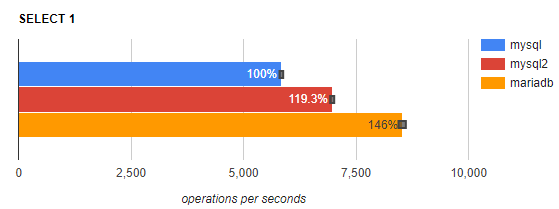
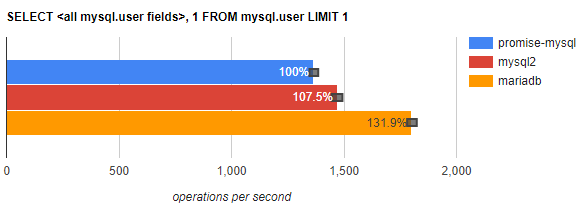
Actual benchmark tests

diff --git a/documentation/benchmarks.md b/documentation/benchmarks.md
@@ -23,19 +23,20 @@ they need to be installed :
 ```
     
 # Some result 
-Result on a DigitalOcean ubuntu 16.04 x64 with 8gb, 4vcpu, using local database :
-* mariadb 10.3 with default configuration and (collation-server=utf8mb4_unicode_ci + character-set-server=utf8mb4)
-* node.js v8.11.3
+Result on 2 DigitalOcean ubuntu 16.04 x64 with 8gb, 4vcpu :
+* server : mariadb 10.3 with default configuration and (collation-server=utf8mb4_unicode_ci + character-set-server=utf8mb4)
+* client : node.js v8.11.3
 
 version : 
 * mysql : 2.15.0
 * mysql2 : 1.5.3
-* mysql-promise : 4.1.0
+* Promise-mysql : 3.1.1
   
 ``` 
+
 { user: 'root',
   database: 'testn',
-  host: 'localhost',
+  host: '159.89.6.101',
   port: 3306,
   trace: false,
   charsetNumber: 224 }
@@ -47,71 +48,84 @@ benchmark: ./benchs/bench_promise_select_collation.js
 benchmark: ./benchs/bench_promise_select_one_user.js
 benchmark: ./benchs/bench_promise_select_one_user_random.js
 benchmark: ./benchs/bench_promise_select_param.js
+benchmark: ./benchs/bench_promise_select_random_param.js
 benchmark: ./benchs/bench_select_one_user.js
 benchmark: ./benchs/bench_select_one_user_random.js
 benchmark: ./benchs/bench_select_param.js
-driver for mysql connected (1/5)
-driver for promise mysql2 connected (2/5)
-driver for mysql2 connected (3/5)
-driver for promise-mariadb connected (4/5)
-driver for mariadb connected (5/5)
-start : init test : 11
-initializing test data 1/11
-initializing test data 2/11
-initializing test data 3/11
-initializing test data 4/11
-initializing test data 5/11
-initializing test data 6/11
-initializing test data 7/11
-initializing test data 8/11
-initializing test data 9/11
-initializing test data 10/11
-initializing test data 11/11
+benchmark: ./benchs/bench_select_random_param.js
+driver for mysql connected (1/6)
+driver for mysql2 connected (2/6)
+driver for promise mysql2 connected (3/6)
+driver for promise-mysql connected (4/6)
+driver for promise-mariadb connected (5/6)
+driver for mariadb connected (6/6)
+start : init test : 13
+initializing test data 1/13
+initializing test data 2/13
+initializing test data 3/13
+initializing test data 4/13
+initializing test data 5/13
+initializing test data 6/13
+initializing test data 7/13
+initializing test data 8/13
+initializing test data 9/13
+initializing test data 10/13
+initializing test data 11/13
+initializing test data 12/13
+initializing test data 13/13
 initializing test data done
-do ? using callback - warmup x 10,303 ops/sec ±2.95% (270 runs sampled)
-do ? using callback - mysql x 9,884 ops/sec ±2.28% (270 runs sampled)
-do ? using callback - mysql2 x 8,431 ops/sec ±2.27% (273 runs sampled)
-do ? using callback - mariadb x 10,930 ops/sec ±2.78% (266 runs sampled)
-do ? using promise - warmup x 11,915 ops/sec ±2.66% (269 runs sampled)
-do ? using promise - promise-mysql x 8,555 ops/sec ±2.45% (276 runs sampled)
-do ? using promise - promise mysql2 x 7,036 ops/sec ±1.37% (275 runs sampled)
-do ? using promise - promise mariadb x 11,829 ops/sec ±3.11% (259 runs sampled)
-insert 10 parameters of 100 characters using promise - warmup x 4,571 ops/sec ±1.08% (276 runs sampled)
-insert 10 parameters of 100 characters using promise - promise-mysql x 4,071 ops/sec ±1.14% (276 runs sampled)
-insert 10 parameters of 100 characters using promise - promise mysql2 x 3,568 ops/sec ±1.47% (273 runs sampled)
-insert 10 parameters of 100 characters using promise - promise mariadb x 4,541 ops/sec ±0.94% (276 runs sampled)
-100 * insert 100 characters using promise - warmup x 1,385 ops/sec ±1.63% (274 runs sampled)
-100 * insert 100 characters using promise - promise-mysql x 654 ops/sec ±1.21% (274 runs sampled)
-100 * insert 100 characters using promise - promise mysql2 x 559 ops/sec ±1.25% (276 runs sampled)
-100 * insert 100 characters using promise - promise mariadb x 1,364 ops/sec ±1.40% (272 runs sampled)
-select multiple collation using promise - warmup x 750 ops/sec ±0.81% (276 runs sampled)
-select multiple collation using promise - promise-mysql x 646 ops/sec ±1.04% (273 runs sampled)
-select multiple collation using promise - promise mysql2 x 690 ops/sec ±1.17% (272 runs sampled)
-select multiple collation using promise - promise mariadb x 741 ops/sec ±0.85% (274 runs sampled)
-select one mysql.user and 1 integer using promise - warmup x 2,714 ops/sec ±1.06% (277 runs sampled)
-select one mysql.user and 1 integer using promise - promise-mysql x 2,023 ops/sec ±1.24% (276 runs sampled)
-select one mysql.user and 1 integer using promise - promise mysql2 x 2,531 ops/sec ±1.08% (276 runs sampled)
-select one mysql.user and 1 integer using promise - promise mariadb x 2,777 ops/sec ±0.77% (279 runs sampled)
-select one mysql.user and a random number (no caching client side) using promise - warmup x 2,693 ops/sec ±1.20% (277 runs sampled)
-select one mysql.user and a random number (no caching client side) using promise - promise-mysql x 1,964 ops/sec ±1.34% (272 runs sampled)
-select one mysql.user and a random number (no caching client side) using promise - promise mysql2 x 527 ops/sec ±5.34% (260 runs sampled)
-select one mysql.user and a random number (no caching client side) using promise - promise mariadb x 2,586 ops/sec ±1.18% (275 runs sampled)
-select random number using promise - warmup x 8,536 ops/sec ±2.43% (274 runs sampled)
-select random number using promise - promise-mysql x 6,985 ops/sec ±1.37% (275 runs sampled)
-select random number using promise - promise mysql2 x 5,605 ops/sec ±3.24% (271 runs sampled)
-select random number using promise - promise mariadb x 8,964 ops/sec ±1.48% (275 runs sampled)
-select one mysql.user and 1 integer using callback - warmup x 2,661 ops/sec ±1.56% (276 runs sampled)
-select one mysql.user and 1 integer using callback - mysql x 2,141 ops/sec ±1.30% (275 runs sampled)
-select one mysql.user and 1 integer using callback - mysql2 x 2,797 ops/sec ±1.23% (277 runs sampled)
-select one mysql.user and 1 integer using callback - mariadb x 2,721 ops/sec ±1.40% (277 runs sampled)
-select one mysql.user and a random number (no caching client side) using callback - warmup x 2,585 ops/sec ±1.68% (273 runs sampled)
-select one mysql.user and a random number (no caching client side) using callback - mysql x 2,080 ops/sec ±1.37% (275 runs sampled)
-select one mysql.user and a random number (no caching client side) using callback - mysql2 x 589 ops/sec ±4.74% (270 runs sampled)
-select one mysql.user and a random number (no caching client side) using callback - mariadb x 2,556 ops/sec ±1.08% (272 runs sampled)
-select random number - warmup x 8,386 ops/sec ±2.54% (272 runs sampled)
-select random number - mysql x 7,816 ops/sec ±1.57% (274 runs sampled)
-select random number - mysql2 x 7,376 ops/sec ±1.33% (274 runs sampled)
-select random number - mariadb x 8,228 ops/sec ±2.58% (271 runs sampled)
+do ? using callback - warmup x 5,080 ops/sec ±1.80% (267 runs sampled)
+do ? using callback - mysql x 4,826 ops/sec ±1.38% (271 runs sampled)
+do ? using callback - mysql2 x 4,360 ops/sec ±1.28% (273 runs sampled)
+do ? using callback - mariadb x 5,214 ops/sec ±1.31% (272 runs sampled)
+do ? using promise - warmup x 5,088 ops/sec ±1.20% (272 runs sampled)
+do ? using promise - promise-mysql x 4,363 ops/sec ±1.08% (273 runs sampled)
+do ? using promise - promise mysql2 x 3,830 ops/sec ±1.04% (273 runs sampled)
+do ? using promise - promise mariadb x 5,261 ops/sec ±1.09% (271 runs sampled)
+insert 10 parameters of 100 characters using promise - warmup x 2,657 ops/sec ±1.24% (272 runs sampled)
+insert 10 parameters of 100 characters using promise - promise-mysql x 2,482 ops/sec ±1.14% (275 runs sampled)
+insert 10 parameters of 100 characters using promise - promise mysql2 x 2,099 ops/sec ±2.55% (272 runs sampled)
+insert 10 parameters of 100 characters using promise - promise mariadb x 2,642 ops/sec ±1.20% (271 runs sampled)
+100 * insert 100 characters using promise - warmup x 984 ops/sec ±2.38% (276 runs sampled)
+100 * insert 100 characters using promise - promise-mysql x 357 ops/sec ±1.07% (273 runs sampled)
+100 * insert 100 characters using promise - promise mysql2 x 321 ops/sec ±2.95% (265 runs sampled)
+100 * insert 100 characters using promise - promise mariadb x 991 ops/sec ±1.21% (277 runs sampled)
+select multiple collation using promise - warmup x 628 ops/sec ±1.05% (278 runs sampled)
+select multiple collation using promise - promise-mysql x 555 ops/sec ±1.05% (275 runs sampled)
+select multiple collation using promise - promise mysql2 x 573 ops/sec ±0.91% (276 runs sampled)
+select multiple collation using promise - promise mariadb x 626 ops/sec ±0.88% (275 runs sampled)
+select one mysql.user and 1 integer using promise - warmup x 1,724 ops/sec ±1.59% (266 runs sampled)
+select one mysql.user and 1 integer using promise - promise-mysql x 1,366 ops/sec ±1.42% (268 runs sampled)
+select one mysql.user and 1 integer using promise - promise mysql2 x 1,469 ops/sec ±1.63% (259 runs sampled)
+select one mysql.user and 1 integer using promise - promise mariadb x 1,802 ops/sec ±1.19% (272 runs sampled)
+select one mysql.user and a random number (no caching client side) using promise - warmup x 1,655 ops/sec ±1.80% (276 runs sampled)
+select one mysql.user and a random number (no caching client side) using promise - promise-mysql x 1,365 ops/sec ±1.43% (270 runs sampled)
+select one mysql.user and a random number (no caching client side) using promise - promise mysql2 x 423 ops/sec ±6.64% (266 runs sampled)
+select one mysql.user and a random number (no caching client side) using promise - promise mariadb x 1,736 ops/sec ±1.21% (274 runs sampled)
+select number using promise - warmup x 4,371 ops/sec ±4.50% (272 runs sampled)
+select number using promise - promise-mysql x 3,794 ops/sec ±1.51% (265 runs sampled)
+select number using promise - promise mysql2 x 3,444 ops/sec ±1.56% (270 runs sampled)
+select number using promise - promise mariadb x 4,506 ops/sec ±1.10% (273 runs sampled)
+select random number using promise - warmup x 4,444 ops/sec ±1.19% (274 runs sampled)
+select random number using promise - promise-mysql x 3,671 ops/sec ±2.75% (271 runs sampled)
+select random number using promise - promise mysql2 x 3,307 ops/sec ±1.35% (271 runs sampled)
+select random number using promise - promise mariadb x 4,511 ops/sec ±1.12% (274 runs sampled)
+select one mysql.user and 1 integer using callback - warmup x 1,664 ops/sec ±1.84% (269 runs sampled)
+select one mysql.user and 1 integer using callback - mysql x 1,406 ops/sec ±1.59% (266 runs sampled)
+select one mysql.user and 1 integer using callback - mysql2 x 1,676 ops/sec ±1.66% (261 runs sampled)
+select one mysql.user and 1 integer using callback - mariadb x 1,754 ops/sec ±1.37% (272 runs sampled)
+select one mysql.user and a random number (no caching client side) using callback - warmup x 1,638 ops/sec ±2.18% (256 runs sampled)
+select one mysql.user and a random number (no caching client side) using callback - mysql x 1,340 ops/sec ±1.88% (257 runs sampled)
+select one mysql.user and a random number (no caching client side) using callback - mysql2 x 477 ops/sec ±4.24% (268 runs sampled)
+select one mysql.user and a random number (no caching client side) using callback - mariadb x 1,627 ops/sec ±1.44% (268 runs sampled)
+select number - warmup x 4,196 ops/sec ±3.35% (272 runs sampled)
+select number - mysql x 4,134 ops/sec ±1.21% (273 runs sampled)
+select number - mysql2 x 3,990 ops/sec ±1.17% (271 runs sampled)
+select number - mariadb x 4,366 ops/sec ±1.53% (274 runs sampled)
+select random number - warmup x 4,285 ops/sec ±1.58% (270 runs sampled)
+select random number - mysql x 4,055 ops/sec ±1.13% (273 runs sampled)
+select random number - mysql2 x 3,940 ops/sec ±1.34% (273 runs sampled)
+select random number - mariadb x 4,528 ops/sec ±1.59% (272 runs sampled)
 ending connectors
 
 
@@ -119,60 +133,69 @@ ending connectors
 /* travis bench are not to take as is, because VM might run some other testing script that can change results */
 
 bench : do ? using callback ( sql: do ? )
-              mysql :  9,883.8 ops/s
-             mysql2 :  8,431.3 ops/s   (  -14.7% )
-            mariadb :   10,930 ops/s   (  +10.6% )
+              mysql :  4,825.5 ops/s
+             mysql2 :  4,359.9 ops/s   (   -9.6% )
+            mariadb :  5,213.6 ops/s   (     +8% )
 
 bench : do ? using promise ( sql: do ? )
-      promise-mysql :  8,555.2 ops/s
-     promise mysql2 :  7,036.2 ops/s   (  -17.8% )
-    promise mariadb : 11,828.8 ops/s   (  +38.3% )
+      promise-mysql :  4,362.8 ops/s
+     promise mysql2 :  3,830.3 ops/s   (  -12.2% )
+    promise mariadb :  5,260.5 ops/s   (  +20.6% )
 
 bench : insert 10 parameters of 100 characters using promise ( sql: INSERT INTO testn.perfTestText VALUES (<100 ?>) (into BLACKHOLE ENGINE) )
-      promise-mysql :  4,070.9 ops/s
-     promise mysql2 :  3,568.3 ops/s   (  -12.3% )
-    promise mariadb :  4,540.8 ops/s   (  +11.5% )
+      promise-mysql :  2,481.8 ops/s
+     promise mysql2 :    2,099 ops/s   (  -15.4% )
+    promise mariadb :  2,641.8 ops/s   (   +6.4% )
 
 bench : 100 * insert 100 characters using promise ( sql: INSERT INTO testn.perfTestTextPipe VALUES (?) (into BLACKHOLE ENGINE) )
-      promise-mysql :    654.1 ops/s
-     promise mysql2 :    558.6 ops/s   (  -14.6% )
-    promise mariadb :  1,364.1 ops/s   ( +108.5% )
+      promise-mysql :    357.3 ops/s
+     promise mysql2 :    320.9 ops/s   (  -10.2% )
+    promise mariadb :    990.9 ops/s   ( +177.3% )
 
 bench : select multiple collation using promise ( sql: select * from information_schema.COLLATIONS )
-      promise-mysql :    646.1 ops/s
-     promise mysql2 :    690.2 ops/s   (   +6.8% )
-    promise mariadb :    740.8 ops/s   (  +14.7% )
+      promise-mysql :    555.2 ops/s
+     promise mysql2 :    573.4 ops/s   (   +3.3% )
+    promise mariadb :    625.5 ops/s   (  +12.7% )
 
 bench : select one mysql.user and 1 integer using promise ( sql: select <all mysql.user fields>, 1 from mysql.user u LIMIT 1 )
-      promise-mysql :  2,023.4 ops/s
-     promise mysql2 :  2,531.1 ops/s   (  +25.1% )
-    promise mariadb :  2,776.9 ops/s   (  +37.2% )
+      promise-mysql :  1,365.8 ops/s
+     promise mysql2 :  1,469.1 ops/s   (   +7.6% )
+    promise mariadb :  1,802.2 ops/s   (    +32% )
 
 bench : select one mysql.user and a random number (no caching client side) using promise ( sql: select <all mysql.user fields>, <random field> from mysql.user u LIMIT 1 )
-      promise-mysql :  1,963.9 ops/s
-     promise mysql2 :    526.5 ops/s   (  -73.2% )
-    promise mariadb :  2,585.6 ops/s   (  +31.7% )
+      promise-mysql :  1,364.8 ops/s
+     promise mysql2 :      423 ops/s   (    -69% )
+    promise mariadb :  1,736.3 ops/s   (  +27.2% )
+
+bench : select number using promise ( sql: select 10000000 )
+      promise-mysql :  3,794.3 ops/s
+     promise mysql2 :  3,443.8 ops/s   (   -9.2% )
+    promise mariadb :  4,506.4 ops/s   (  +18.8% )
 
 bench : select random number using promise ( sql: select ? )
-      promise-mysql :  6,984.5 ops/s
-     promise mysql2 :    5,605 ops/s   (  -19.8% )
-    promise mariadb :  8,964.1 ops/s   (  +28.3% )
+      promise-mysql :  3,671.1 ops/s
+     promise mysql2 :  3,307.3 ops/s   (   -9.9% )
+    promise mariadb :  4,510.8 ops/s   (  +22.9% )
 
 bench : select one mysql.user and 1 integer using callback ( sql: select <all mysql.user fields>, 1 from mysql.user u LIMIT 1 )
-              mysql :    2,141 ops/s
-             mysql2 :  2,797.4 ops/s   (  +30.7% )
-            mariadb :  2,720.6 ops/s   (  +27.1% )
+              mysql :    1,406 ops/s
+             mysql2 :  1,675.9 ops/s   (  +19.2% )
+            mariadb :  1,754.2 ops/s   (  +24.8% )
 
 bench : select one mysql.user and a random number (no caching client side) using callback ( sql: select <all mysql.user fields>, <random field> from mysql.user u LIMIT 1 )
-              mysql :  2,079.9 ops/s
-             mysql2 :    588.6 ops/s   (  -71.7% )
-            mariadb :  2,555.5 ops/s   (  +22.9% )
+              mysql :  1,340.3 ops/s
+             mysql2 :    476.8 ops/s   (  -64.4% )
+            mariadb :  1,627.3 ops/s   (  +21.4% )
+
+bench : select number ( sql: select ? )
+              mysql :    4,134 ops/s
+             mysql2 :  3,990.5 ops/s   (   -3.5% )
+            mariadb :  4,365.6 ops/s   (   +5.6% )
 
 bench : select random number ( sql: select ? )
-              mysql :  7,816.3 ops/s
-             mysql2 :  7,376.2 ops/s   (   -5.6% )
-            mariadb :  8,228.2 ops/s   (   +5.3% )
-  
+              mysql :  4,055.3 ops/s
+             mysql2 :    3,940 ops/s   (   -2.8% )
+            mariadb :  4,527.5 ops/s   (  +11.6% )
 ```
 
-mysql2 use a metadata client caching, so queries with metadata already in cache are faster   
+mysql2 use a metadata client caching, so queries with metadata already in cache are faster than new queries.    

diff --git a/README.md b/README.md
@@ -48,13 +48,13 @@ Queries are send one after another, avoiding a lot of network latency ([detail i
 ## Benchmarks
 
 Comparison with popular connectors :
-* mysql - https://www.npmjs.com/package/mysql (version 2.15.0)
-* mysql2 - https://www.npmjs.com/package/mysql2 (version 1.5.3)
+* [promise-mysql](https://www.npmjs.com/package/promise-mysql) version 3.3.1 + [mysql](https://www.npmjs.com/package/mysql) version 2.15.0 
+* [mysql2](https://www.npmjs.com/package/mysql2) version 1.5.3
 
 ```
-mysql   : 5,841 ops/sec ±0.70%
-mysql2  : 6,971 ops/sec ±0.64%
-mariadb : 8,526 ops/sec ±0.96%
+promise-mysql  : 1,366 ops/sec ±1.42%
+mysql2         : 1,469 ops/sec ±1.63%
+mariadb        : 1,802 ops/sec ±1.19%
 ```
 
 <img src="./documentation/misc/bench.png" width="559" height="209"/>
